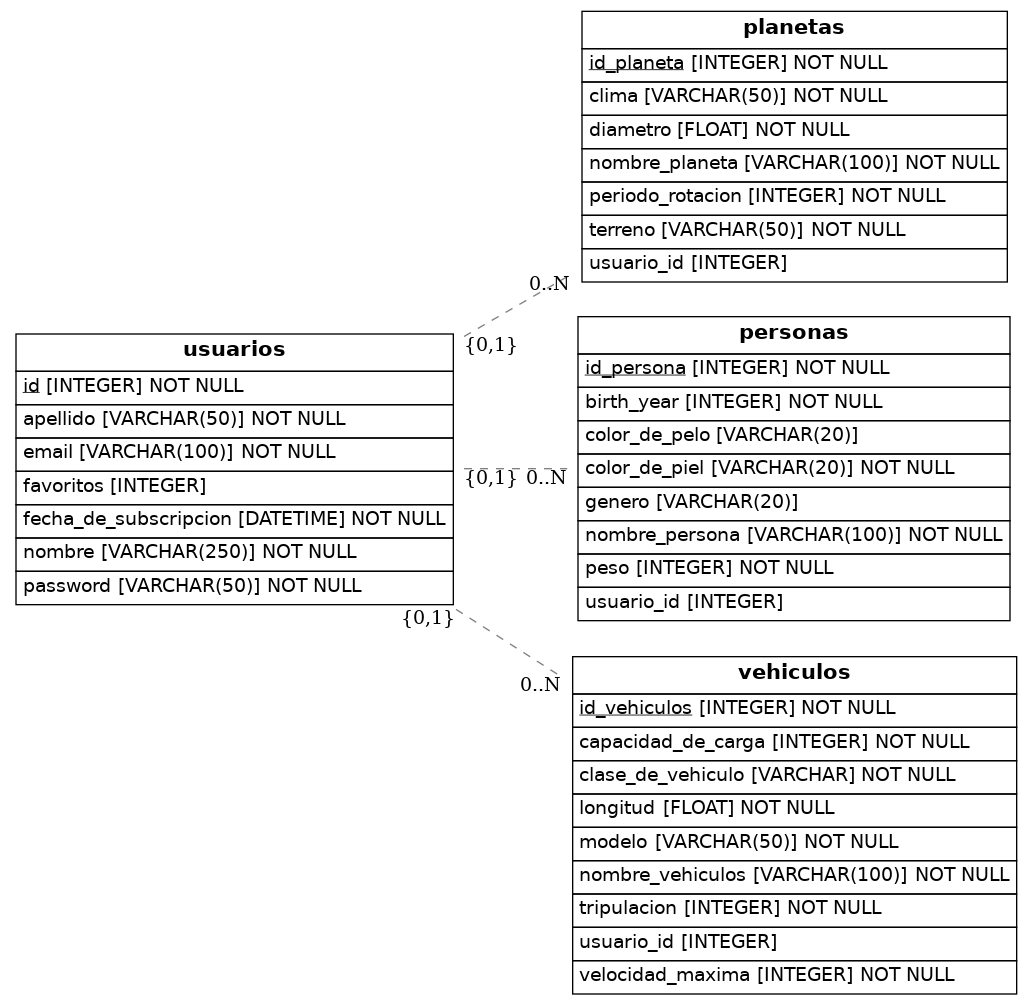
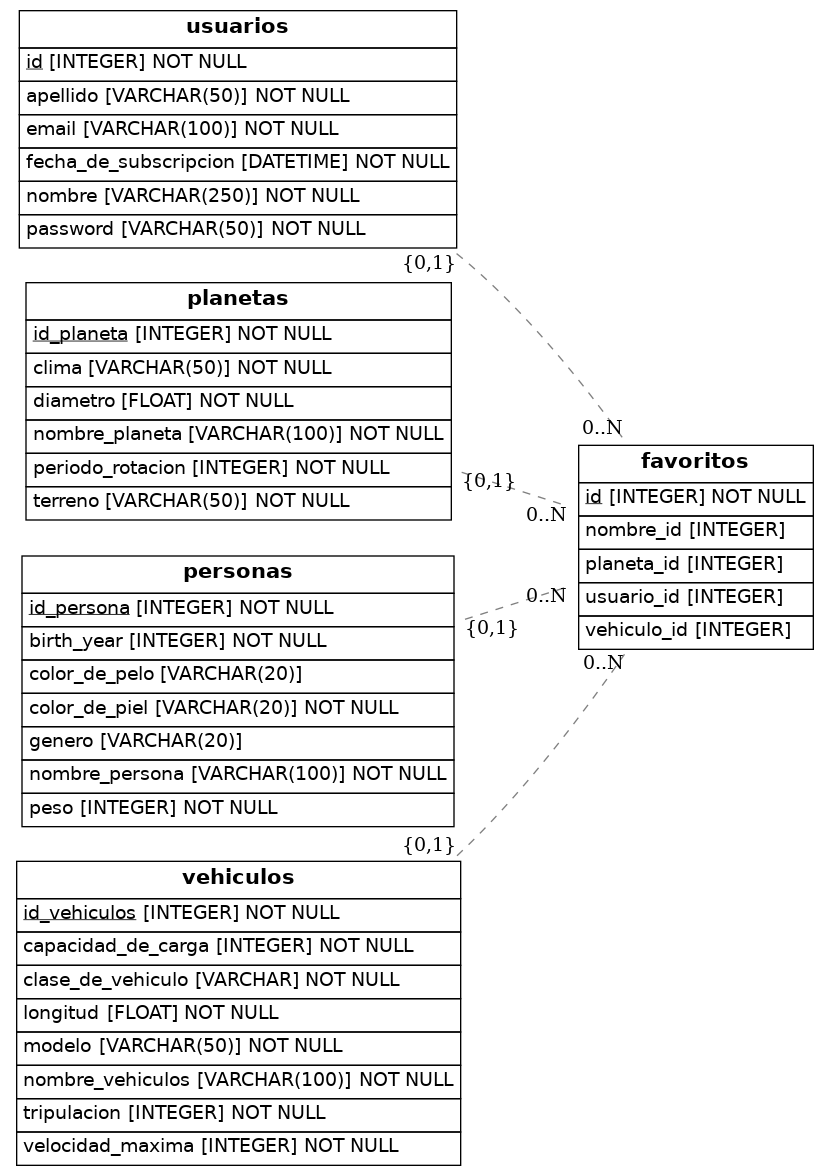
segundoCommit

Changed region(s): [[0.0, 0.0, 0.9952, 1.0], [0.965, 0.247, 0.9952, 0.2779]]

diff --git a/src/models.py b/src/models.py
@@ -15,9 +15,18 @@ class Usuario(Base):
     password = Column(String(50), nullable=False)
     fecha_de_subscripcion = Column(DateTime, nullable=False)
     email = Column(String(100), nullable=False)
-    favoritos = Column(Integer)
 
-
+class Favoritos(Base):
+    __tablename__ = 'favoritos'
+    id = Column(Integer, primary_key=True)
+    usuario_id = Column(Integer, ForeignKey('usuarios.id'))
+    usuario = relationship(Usuario)
+    planeta_id = Column(Integer, ForeignKey('planetas.id_planeta'))
+    planeta = relationship("Planetas")
+    vehiculo_id = Column(Integer, ForeignKey('vehiculos.id_vehiculos'))
+    vehiculo = relationship("Vehiculos")
+    nombre_id = Column(Integer, ForeignKey('personas.id_persona'))
+    nombre = relationship("Nombres")
 
 class Planetas(Base):
     __tablename__ = 'planetas'  
@@ -27,8 +36,6 @@ class Planetas(Base):
     diametro = Column(Float, nullable=False)
     clima = Column(String(50), nullable=False)
     terreno = Column(String(50), nullable=False)
-    usuario_id = Column(Integer, ForeignKey('usuarios.id'))
-    usuario = relationship(Usuario)
 
 class Nombres(Base):
     __tablename__ = 'personas'
@@ -39,26 +46,20 @@ class Nombres(Base):
     color_de_pelo = Column(String(20))
     genero = Column(String(20))
     birth_year = Column(Integer, nullable=False)
-    usuario_id = Column(Integer, ForeignKey('usuarios.id'))
-    usuario = relationship(Usuario)
 
 class Vehiculos(Base):
      __tablename__ = 'vehiculos'
      id_vehiculos = Column(Integer, primary_key=True)
      nombre_vehiculos = Column(String(100), nullable=False)
      modelo = Column(String(50), nullable=False)
-     longitud = Column(Float, nullable=False)
-     
+     longitud = Column(Float, nullable=False)     
      tripulacion = Column(Integer, nullable=False)
      clase_de_vehiculo =Column(String, nullable=False)
      capacidad_de_carga =Column(Integer, nullable=False)
      velocidad_maxima =Column(Integer, nullable=False)
-     usuario_id = Column(Integer, ForeignKey('usuarios.id'))
-     usuario = relationship(Usuario)
 
 def to_dict(self):
     return {}
 
 ## Draw from SQLAlchemy base
 render_er(Base, 'diagram.png')
-
